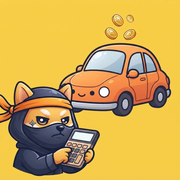
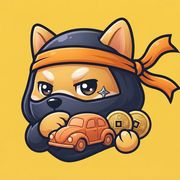
アイコンを基準の型（胸から上・ミニカーと硬貨）に作り直し

diff --git a/index.html b/index.html
@@ -11,9 +11,9 @@
 <meta name="robots" content="index,follow,max-image-preview:large">
 <meta name="theme-color" content="#ff8a3d">
 <!-- WEBNINJA_UNIFIED_FAVICON -->
-<link rel="icon" type="image/png" sizes="32x32" href="/favicon.png">
-<link rel="icon" type="image/png" sizes="192x192" href="/favicon-192.png">
-<link rel="apple-touch-icon" sizes="180x180" href="/apple-touch-icon.png">
+<link rel="icon" type="image/png" sizes="32x32" href="/favicon.png?v=2">
+<link rel="icon" type="image/png" sizes="192x192" href="/favicon-192.png?v=2">
+<link rel="apple-touch-icon" sizes="180x180" href="/apple-touch-icon.png?v=2">
 
 <meta property="og:type" content="website">
 <meta property="og:title" content="車の維持費シミュレーション｜ローン込みの月々と売却額で2台比較">
